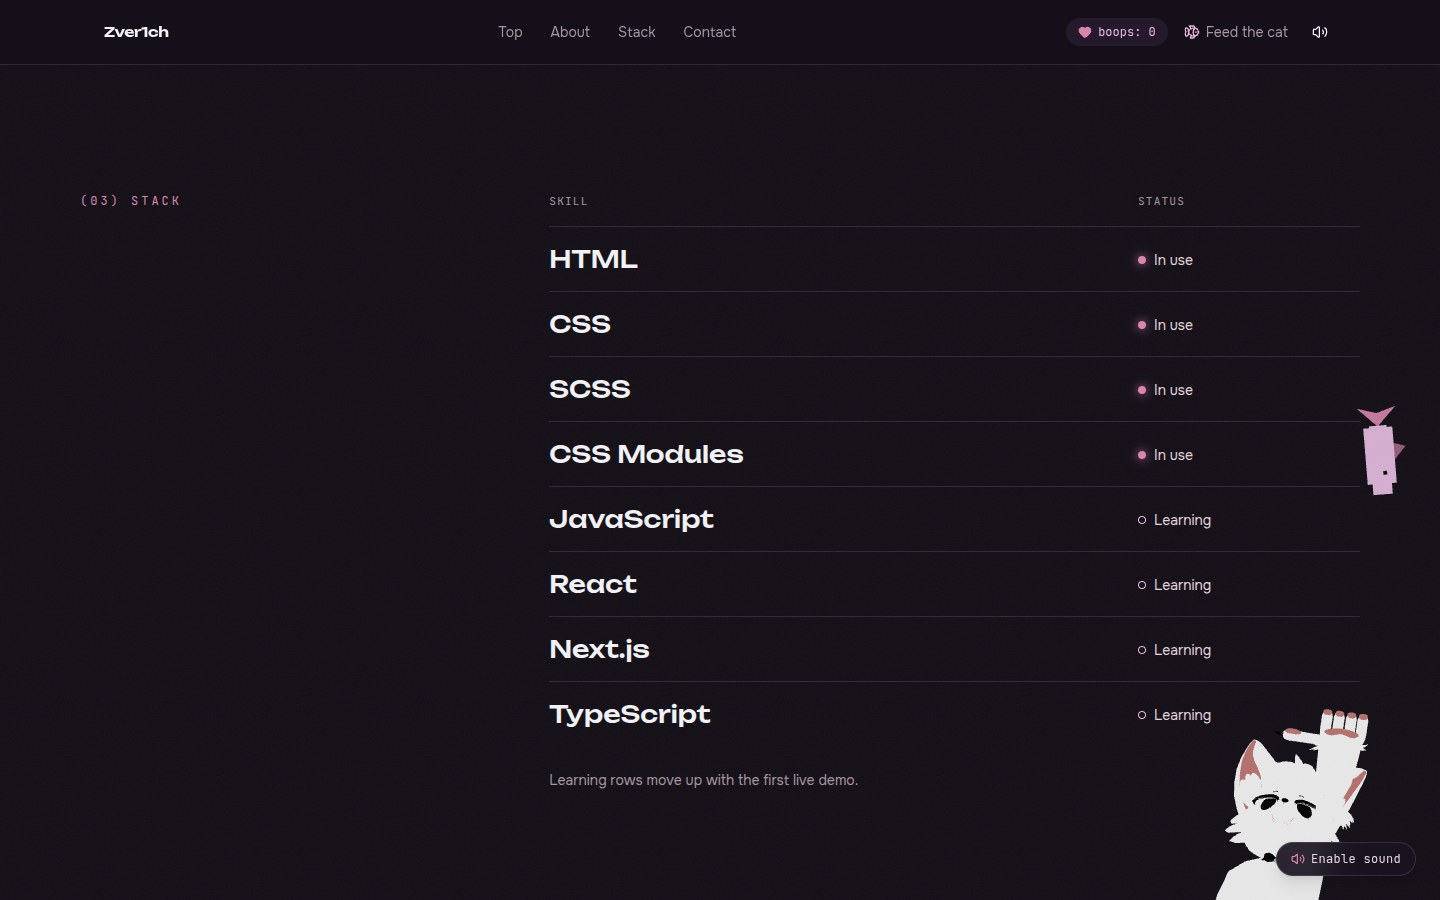
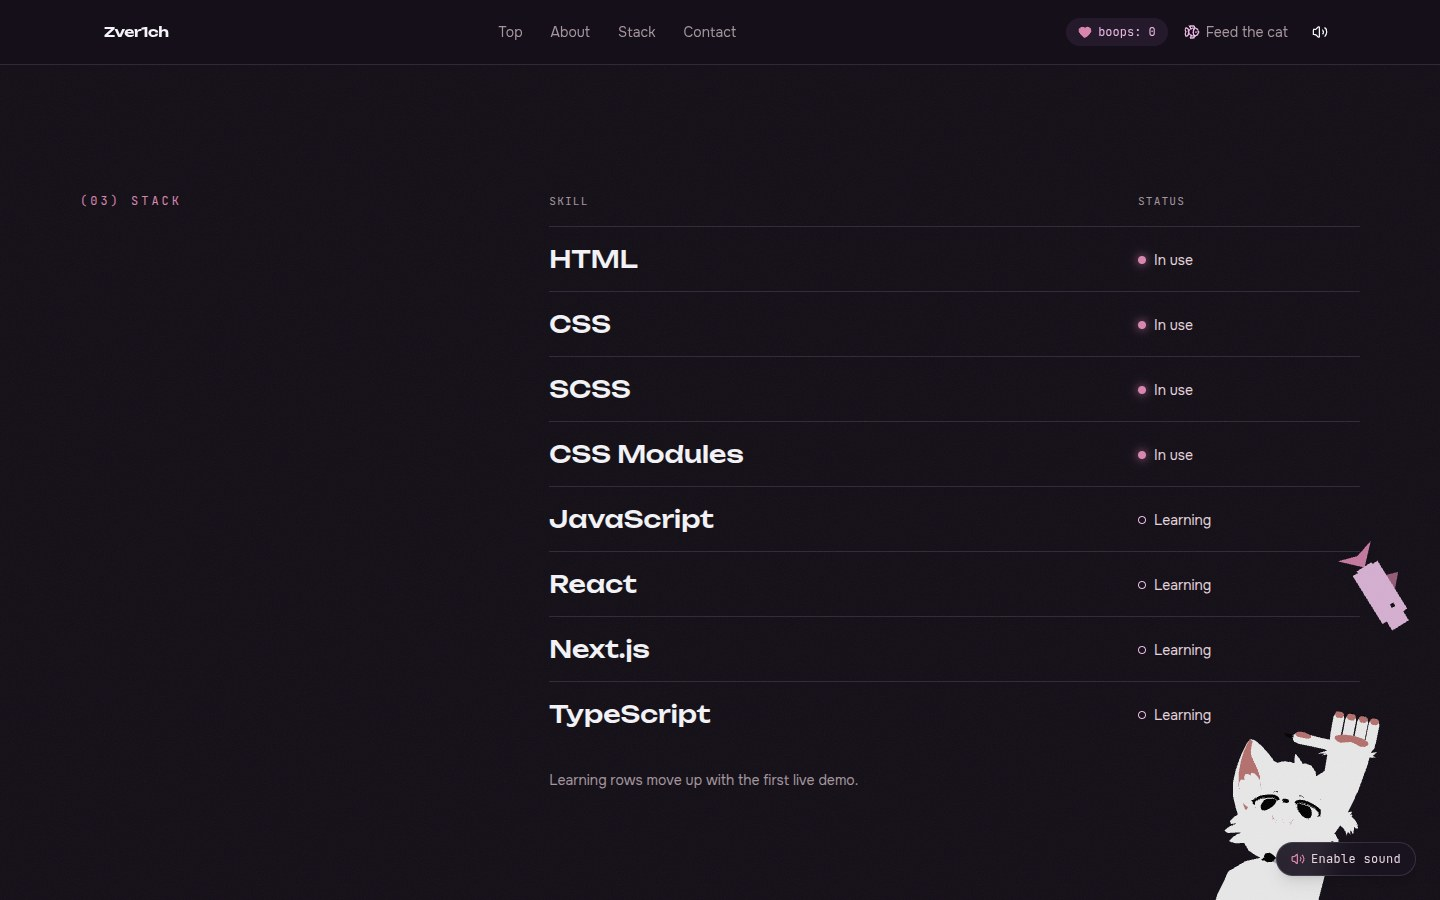
fix: gate 2 round 2: face-only pet, palms together, no double scroll on nav
The seated cat's pet reaction is the face alone: a new sit-boop pose, masked
to neck, head and ears, tilts the head towards the visitor and flattens the
ears while the jaw layer opens the mouth; the paws and the tail stay where
the sitting pose has them. The full-body stretch stays in the lab.

The sleeper's forearms are twisted so the palms face each other, the lower
one up and the upper one down with the pads between them. The rolls were
measured rather than guessed: the lab reads the palm direction from the
pad vertices (lower palm up 0.98, upper down -0.89 along Y); the dawn
posters are re-rendered.

The shake between Top and About was a double scroll. Lenis's own anchor
handler never prevents the click's default, so the browser jumped to the
fragment at once and Lenis then scrolled from the old position: the page
leapt to About, back to the dive and down again. SmoothScroll now handles
in-page links itself with Lenis alone (which honours scroll-margin) and sets
the hash on arrival, so history and the keyboard's focus start behave as
after a native jump. The nav e2e logs every scroll position on the way down
and asserts the page never turns back.

diff --git a/src/shared/lib/gsap/smooth-scroll.test.tsx b/src/shared/lib/gsap/smooth-scroll.test.tsx
@@ -1,0 +1,137 @@
+import { cleanup, render } from '@testing-library/react'
+import { afterEach, beforeEach, describe, expect, it, vi } from 'vitest'
+
+const lenis = vi.hoisted(() => ({
+	instances: [] as {
+		scrollTo: ReturnType<typeof vi.fn>
+		destroy: ReturnType<typeof vi.fn>
+	}[],
+}))
+vi.mock('lenis', () => ({
+	default: class FakeLenis {
+		scrollTo = vi.fn()
+		destroy = vi.fn()
+		on() {}
+		raf() {}
+		constructor() {
+			lenis.instances.push(this)
+		}
+	},
+}))
+
+import { inPageAnchor, SmoothScroll } from './smooth-scroll'
+
+function click(target: Element, init: MouseEventInit = {}) {
+	const event = new MouseEvent('click', {
+		bubbles: true,
+		cancelable: true,
+		button: 0,
+		...init,
+	})
+	target.dispatchEvent(event)
+	return event
+}
+
+describe('SmoothScroll', () => {
+	beforeEach(() => {
+		lenis.instances.length = 0
+		document.body.innerHTML = `
+			<a id="about-link" href="#about">About</a>
+			<a id="top-link" href="/#top">Top</a>
+			<a id="external" href="https://example.com/#x">Out</a>
+			<a id="missing" href="#nowhere">Missing</a>
+			<a id="blank" href="#about" target="_blank">New tab</a>
+			<section id="top"></section>
+			<section id="about"></section>
+		`
+		window.location.hash = ''
+	})
+	afterEach(() => {
+		cleanup()
+		vi.unstubAllGlobals()
+	})
+
+	it('names in-page links only', () => {
+		const about = document.getElementById('about') as Element
+		expect(
+			inPageAnchor(
+				click(document.getElementById('about-link') as Element),
+			),
+		).toEqual({
+			hash: '#about',
+			element: about,
+		})
+		expect(
+			inPageAnchor(click(document.getElementById('top-link') as Element))
+				?.element,
+		).toBe(document.getElementById('top'))
+		expect(
+			inPageAnchor(click(document.getElementById('external') as Element)),
+		).toBeNull()
+		expect(
+			inPageAnchor(click(document.getElementById('missing') as Element)),
+		).toBeNull()
+		expect(
+			inPageAnchor(click(document.getElementById('blank') as Element)),
+		).toBeNull()
+		expect(
+			inPageAnchor(
+				click(document.getElementById('about-link') as Element, {
+					ctrlKey: true,
+				}),
+			),
+		).toBeNull()
+		expect(
+			inPageAnchor(
+				click(document.getElementById('about-link') as Element, {
+					button: 1,
+				}),
+			),
+		).toBeNull()
+	})
+
+	it('with a fine pointer, scrolls in-page links through Lenis alone and sets the hash on arrival', () => {
+		vi.stubGlobal(
+			'matchMedia',
+			(media: string) =>
+				({
+					matches: true,
+					media,
+					addEventListener() {},
+					removeEventListener() {},
+				}) as unknown as MediaQueryList,
+		)
+		const { unmount } = render(<SmoothScroll />)
+		expect(lenis.instances).toHaveLength(1)
+		const instance = lenis.instances[0]
+
+		const event = click(document.getElementById('about-link') as Element)
+		expect(event.defaultPrevented).toBe(true)
+		expect(instance.scrollTo).toHaveBeenCalledTimes(1)
+		const [element, options] = instance.scrollTo.mock.calls[0] as [
+			Element,
+			{ onComplete: () => void },
+		]
+		expect(element).toBe(document.getElementById('about'))
+		expect(window.location.hash).toBe('')
+		options.onComplete()
+		expect(window.location.hash).toBe('#about')
+
+		// A link out of the page keeps its default.
+		const out = click(document.getElementById('external') as Element)
+		expect(out.defaultPrevented).toBe(false)
+		expect(instance.scrollTo).toHaveBeenCalledTimes(1)
+
+		unmount()
+		expect(instance.destroy).toHaveBeenCalled()
+		const after = click(document.getElementById('about-link') as Element)
+		expect(after.defaultPrevented).toBe(false)
+	})
+
+	it('without a fine pointer, leaves clicks to the browser', () => {
+		render(<SmoothScroll />)
+		expect(lenis.instances).toHaveLength(0)
+		const event = click(document.getElementById('about-link') as Element)
+		expect(event.defaultPrevented).toBe(false)
+	})
+})

diff --git a/src/shared/lib/gsap/smooth-scroll.tsx b/src/shared/lib/gsap/smooth-scroll.tsx
@@ -5,30 +5,86 @@ import { useEffect } from 'react'
 import { FINE_POINTER_QUERY } from '@/shared/config/motion'
 import { gsap, ScrollTrigger } from './register'
 
-/** Lenis only for desktop pointers; touch keeps native scrolling. */
+export type InPageAnchor = { hash: string; element: Element }
+
+/**
+ * The in-page link under a plain left click, when this page should scroll to
+ * it itself: same document, a fragment that exists, no modifier keys, not
+ * already handled.
+ */
+export function inPageAnchor(event: MouseEvent): InPageAnchor | null {
+	if (event.defaultPrevented || event.button !== 0) return null
+	if (event.metaKey || event.ctrlKey || event.shiftKey || event.altKey)
+		return null
+	const anchor =
+		event.target instanceof Element ? event.target.closest('a[href]') : null
+	if (!(anchor instanceof HTMLAnchorElement)) return null
+	if (anchor.target && anchor.target !== '_self') return null
+	const url = new URL(anchor.href, window.location.href)
+	if (
+		url.origin !== window.location.origin ||
+		url.pathname !== window.location.pathname ||
+		!url.hash
+	)
+		return null
+	let element: Element | null = null
+	try {
+		element = document.querySelector(decodeURIComponent(url.hash))
+	} catch {
+		return null
+	}
+	return element ? { hash: url.hash, element } : null
+}
+
+/**
+ * Lenis only for desktop pointers; touch keeps native scrolling. In-page
+ * links are scrolled by Lenis alone: left to the browser as well, the page
+ * would jump to the fragment at once and Lenis would then scroll from where
+ * it had been, one jump back and forth (the "shaking" of Gate 2, round 2).
+ * The fragment lands in the URL once Lenis arrives, so history and the
+ * keyboard's focus start behave as after a native jump.
+ */
 export function SmoothScroll() {
 	useEffect(() => {
 		const query = window.matchMedia(FINE_POINTER_QUERY)
 		let lenis: Lenis | undefined
 		let tick: ((time: number) => void) | undefined
+		let onClick: ((event: MouseEvent) => void) | undefined
 
 		const stop = () => {
 			if (tick) gsap.ticker.remove(tick)
+			if (onClick) document.removeEventListener('click', onClick)
 			lenis?.destroy()
 			lenis = undefined
 			tick = undefined
+			onClick = undefined
 		}
 		const start = () => {
 			stop()
 			if (!query.matches) return
-			const instance = new Lenis({ anchors: true, syncTouch: false })
+			const instance = new Lenis({ syncTouch: false })
 			instance.on('scroll', ScrollTrigger.update)
 			const raf = (time: number) => instance.raf(time * 1000)
 			// Lenis moves the page before anything else reads scroll in the tick.
 			gsap.ticker.add(raf, false, true)
 			gsap.ticker.lagSmoothing(0)
+			const click = (event: MouseEvent) => {
+				const target = inPageAnchor(event)
+				if (!target) return
+				event.preventDefault()
+				// Lenis honours the target's scroll-margin itself.
+				instance.scrollTo(target.element as HTMLElement, {
+					onComplete: () => {
+						// Already there, so the browser's own fragment scroll moves nothing.
+						if (window.location.hash !== target.hash)
+							window.location.hash = target.hash
+					},
+				})
+			}
+			document.addEventListener('click', click)
 			lenis = instance
 			tick = raf
+			onClick = click
 		}
 
 		start()

diff --git a/src/features/cat-room/config/poses.ts b/src/features/cat-room/config/poses.ts
@@ -47,6 +47,7 @@ export type Pose = {
 export type PoseName =
 	| 'rest'
 	| 'sit'
+	| 'sit-boop'
 	| 'stretch'
 	| 'sleep'
 	| 'sleep-stretch'
@@ -134,7 +135,23 @@ export const POSES: Record<PoseName, Pose> = {
 		},
 	},
 
-	/** The click reaction, seated: paws thrown up and out, back arched, legs kicking forward, tail up, mouth open through the jaw layer. */
+	/**
+	 * The click reaction, seated (Gate 2, round 2): face only. Masked to neck,
+	 * head and ears: the head tips to the side and down a little towards the
+	 * visitor, the ears flatten; the jaw layer opens the mouth. Paws and tail
+	 * stay where the sitting pose has them.
+	 */
+	'sit-boop': {
+		root: SIT_ROOT,
+		bones: {
+			neck: { aim: [0.12, 0.93, 0.34] },
+			head: { aim: [0.3, 0.88, 0.36], twist: 14 },
+			ear_l: { rot: [0, 0, -26] },
+			ear_r: { rot: [0, 0, 26] },
+		},
+	},
+
+	/** A full-body stretch, seated: paws up and out, back arched, legs kicking forward, tail up. Kept for the lab; the click reaction is `sit-boop`. */
 	stretch: {
 		root: SIT_ROOT,
 		bones: {
@@ -186,12 +203,14 @@ export const POSES: Record<PoseName, Pose> = {
 			// Upper arms along the chest towards the chin, forearms folded in
 			// front of it, paws tucked under the chin (the `post` raise is what
 			// the lab's sliders found): the lower (left) arm on the desk, the
-			// right one over it.
+			// right one over it. The forearm twists turn the palms towards each
+			// other, the lower one up and the upper one down (measured from the
+			// pad vertices in the lab, Gate 2 round 2).
 			arm_l: { aim: [0.5, 0.75, 0.45], post: [40, 0, 0] },
-			elbow_l: { aim: [0.2, 0.3, 0.93] },
+			elbow_l: { aim: [0.2, 0.3, 0.93], twist: -85 },
 			wrist_l: { aim: [0, 0.5, 0.86] },
 			arm_r: { aim: [-0.1, 0.8, 0.6], post: [40, 0, 0] },
-			elbow_r: { aim: [0.1, 0.2, 0.97] },
+			elbow_r: { aim: [0.1, 0.2, 0.97], twist: 100 },
 			wrist_r: { aim: [0, 0.4, 0.9] },
 			// Thighs up towards the belly, shins folded back, the right leg lying
 			// on the left one.

diff --git a/e2e/home.spec.ts b/e2e/home.spec.ts
@@ -232,8 +232,22 @@ test.describe('sections', () => {
 		const problems = collectProblems(page)
 		await gotoHydrated(page)
 		const nav = page.getByRole('navigation', { name: 'Sections' })
+		// Every scroll position on the way down, to prove the page never turns
+		// back: the browser's own fragment jump racing the smooth scroll did.
+		await page.evaluate(() => {
+			const log: number[] = []
+			Object.assign(window, { __scrollLog: log })
+			window.addEventListener('scroll', () => log.push(window.scrollY), {
+				passive: true,
+			})
+		})
 
 		for (const section of SECTIONS) {
+			await page.evaluate(() => {
+				;(
+					window as unknown as { __scrollLog: number[] }
+				).__scrollLog.length = 0
+			})
 			await nav.getByRole('link', { name: section.link }).click()
 			await waitForScrollToSettle(page)
 			const heading = page.getByRole('heading', {
@@ -244,6 +258,24 @@ test.describe('sections', () => {
 			await expect(heading).toBeInViewport()
 			const box = await heading.boundingBox()
 			expect(box?.y).toBeGreaterThanOrEqual(HEADER_HEIGHT)
+			const log = await page.evaluate(
+				() =>
+					(window as unknown as { __scrollLog: number[] })
+						.__scrollLog,
+			)
+			const turnedBack = log.some(
+				(y, i) => i > 0 && y < (log[i - 1] as number) - 1,
+			)
+			expect(turnedBack, `${section.link}: ${log.join(' ')}`).toBe(false)
+			// The hash lands when the smooth scroll completes, a few sub-pixel
+			// frames after the position looks settled.
+			await expect
+				.poll(() => new URL(page.url()).hash, { timeout: 5000 })
+				.toBe(
+					(await nav
+						.getByRole('link', { name: section.link })
+						.getAttribute('href')) as string,
+				)
 		}
 
 		await nav.getByRole('link', { name: 'Top' }).click()

diff --git a/src/features/cat-room/config/tuning.ts b/src/features/cat-room/config/tuning.ts
@@ -29,12 +29,14 @@ export const MEOW = { jawDeg: 18, durationMs: 350 } as const
  * stretches slower and yawns later.
  */
 export const PET = {
+	/** Seated: only the face reacts (Gate 2, round 2), the paws and the tail stay put. */
 	awake: {
-		pose: 'stretch',
-		fadeIn: 0.25,
-		hold: 0.8,
-		fadeOut: 0.6,
-		jawDelay: 0.15,
+		pose: 'sit-boop',
+		fadeIn: 0.18,
+		hold: 0.55,
+		fadeOut: 0.45,
+		jawDelay: 0.08,
+		bones: ['neck', 'head', 'ear_l', 'ear_r'],
 	},
 	asleep: {
 		pose: 'sleep-stretch',

diff --git a/docs/cat-room-plan.md b/docs/cat-room-plan.md
@@ -97,7 +97,7 @@ Modes (decided on the client; the server always renders `static`):
 | Step | full | lite | static |
 |---|---|---|---|
 | Load | Server HTML paints the header, hero copy (h1 `profile.name`, `profile.role`, `profile.tagline`) and the loader veil: 2D face, "Building the room…", real progress. The page is scrollable at once. | Same. | Veil hidden by CSS; night poster, hero copy and the 2D face button (meows, counts). |
-| Scene ready | Veil fades and the live room replaces the poster: the cat breathes, the tail sways over the screen, the head lazily follows the cursor, gibberish appears on the monitor (which shows the real first section). The "Enable sound" chip appears. Click on the cat: stretch, meow, hearts, counter. | Same room, portrait-aware framing, the monitor shows a fake screen (flat glow and text bars). Tap on the cat works. | No scene. |
+| Scene ready | Veil fades and the live room replaces the poster: the cat breathes, the tail sways over the screen, the head lazily follows the cursor, gibberish appears on the monitor (which shows the real first section). The "Enable sound" chip appears. Click on the cat: a face reaction (head tilt, ears flat, mouth open; the paws and the tail stay put, Gate 2 round 2), meow, hearts, counter. | Same room, portrait-aware framing, the monitor shows a fake screen (flat glow and text bars). Tap on the cat works. | No scene. |
 | Dive | The hero stage pins for 2.2 viewport heights. Hero copy scrolls away and fades. The camera flies to the monitor; the tail flicks off the screen; the screen fills the viewport and docks at identity. | No pin. While the hero scrolls out, the camera pushes in about a third of the path and the canvas fades to transparent, revealing the next section. | Normal scroll. |
 | Statement | `profile.statement` in giant uppercase. Corner captions: `profile.handle`, `profile.location`, `profile.languages`. A mono line receives `asdfghjkl`. | Same, static typing line. | Same, static line. |
 | About | `profile.about` large; facts list: handle, location, languages, `profile.now`. | Same. | Same. |

diff --git a/AGENTS.md b/AGENTS.md
@@ -251,6 +251,14 @@ otherwise the value is captured during prerendering.
   mood in the finale. `features/toggle-sound/ui/sound-prompt.tsx` is the
   "Enable sound" chip, mounted by `widgets/cat-stage` once the room runs and
   gone once any choice is stored; the toggle mutes everything.
+- Smooth scrolling (`src/shared/lib/gsap/smooth-scroll.tsx`): Lenis runs on
+  fine pointers only and is ticked from the GSAP ticker ahead of
+  ScrollTrigger. In-page links are scrolled by Lenis alone: the component
+  prevents the click's default and calls `scrollTo` (Lenis honours the
+  target's `scroll-margin`), setting the hash once it arrives. Left to the
+  browser as well, the instant fragment jump raced the smooth scroll and
+  the page jumped back and forth; the nav e2e asserts the scroll never
+  turns back.
 - Posters (`public/posters/room-{night,dawn}{,-portrait}.jpg`) and
   `app/apple-icon.png` are rendered from the lab with `pnpm assets:posters`;
   re-run it after any change to the room, the poses or the palette.
